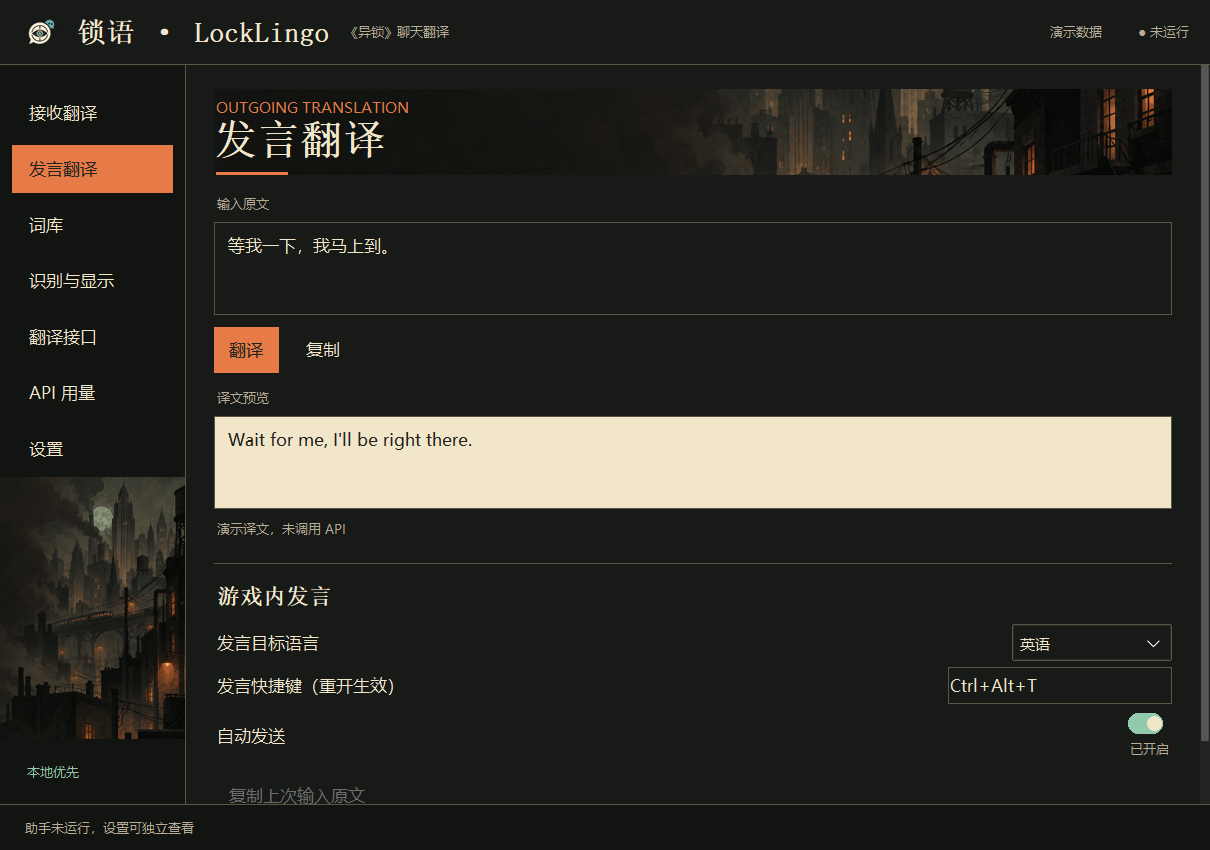
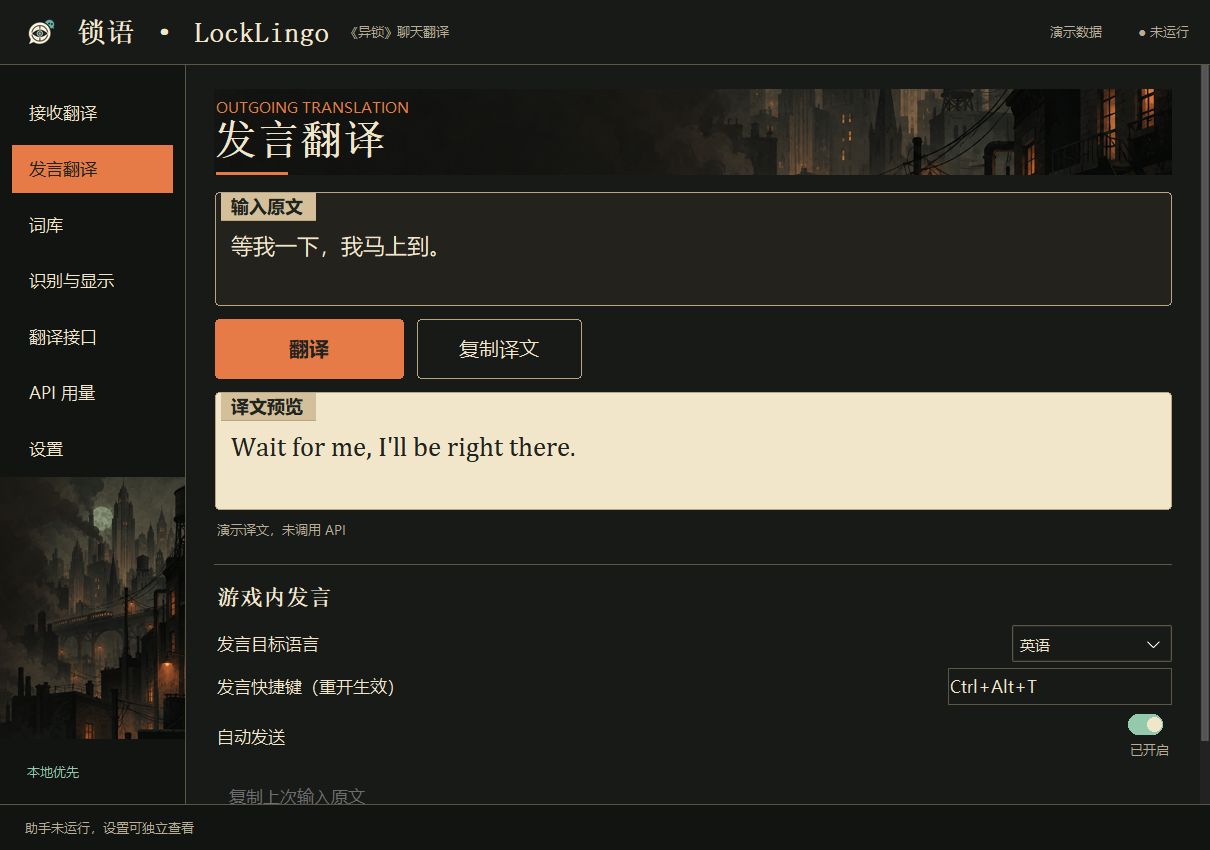
Polish composer typography and rounded print-style fields

diff --git a/gui/composer.py b/gui/composer.py
@@ -7,6 +7,84 @@ from gui.theme import COLORS as C
 from app.translation.manual import ManualTranslator
 
 
+def _rounded_outline(canvas, width, height, *, fill, border):
+    radius = 10
+    canvas.create_polygon(
+        1+radius, 1, width-radius, 1, width, 1, width, 1+radius,
+        width, height-radius, width, height, width-radius, height,
+        1+radius, height, 1, height, 1, height-radius, 1, 1+radius, 1, 1,
+        smooth=True, splinesteps=24, fill=fill, outline=border,
+        tags='decoration')
+
+
+def _text_field(parent, th, title, *, preview=False):
+    """Small print-style corners around a native, selectable Tk text widget."""
+    import tkinter.font as tkfont
+    fill = C['paper'] if preview else '#23221D'
+    font = ('Cambria', 16) if preview else (th.font[0], 13)
+    frame = th.tk.Canvas(parent, bg=C['bg'], width=1, highlightthickness=0,
+                         takefocus=0)
+    frame.pack(fill='x')
+    editor = th.tk.Text(frame, height=2, width=1, wrap='word', font=font,
+                        relief='flat', bd=0, highlightthickness=0,
+                        bg=fill, fg=C['ink'] if preview else C['fg'],
+                        insertbackground=C['fg'], selectbackground=C['accent'],
+                        selectforeground=C['ink'], padx=10, pady=9,
+                        state='disabled' if preview else 'normal', undo=not preview)
+    header = 30
+    frame.configure(height=header + editor.winfo_reqheight() + 7)
+    window = frame.create_window(7, header, window=editor, anchor='nw')
+    tag_font = (th.font[0], 11, 'bold')
+    tag_width = tkfont.Font(root=parent, font=tag_font).measure(title) + 30
+
+    def draw(_event=None):
+        frame.delete('decoration')
+        width, height = frame.winfo_width()-1, frame.winfo_height()-1
+        border = C['accent'] if str(editor.tk.call('focus')) == str(editor) else '#B9A580'
+        _rounded_outline(frame, width, height, fill=fill, border=border)
+        frame.create_rectangle(7, 2, tag_width, header-1,
+                               fill='#D3C09B', outline='', tags='decoration')
+        frame.create_line(7, header-1, tag_width, header-1,
+                          fill=border, tags='decoration')
+        frame.create_text(17, header/2, anchor='w', text=title,
+                          fill=C['ink'], font=tag_font, tags='decoration')
+        frame.itemconfigure(window, width=max(1, width-14))
+        frame.tag_lower('decoration')
+
+    frame.bind('<Configure>', draw)
+    editor.bind('<FocusIn>', draw, add='+')
+    editor.bind('<FocusOut>', draw, add='+')
+    return editor
+
+
+def _action_button(parent, th, title, command, *, primary=False):
+    frame = th.tk.Canvas(parent, bg=C['bg'], highlightthickness=0, takefocus=0)
+    frame.pack(side='left', padx=(0 if primary else 12, 0))
+    button = th.button(frame, title, command, kind='primary' if primary else 'default')
+    button.configure(font=(th.font[0], 12, 'bold' if primary else 'normal'),
+                     width=12 if primary else 11, pady=6, highlightthickness=0)
+    frame.configure(width=button.winfo_reqwidth()+10, height=button.winfo_reqheight()+10)
+    frame.create_window(5, 5, anchor='nw', window=button)
+
+    def draw(_event=None):
+        frame.delete('decoration')
+        focused = str(button.tk.call('focus')) == str(button)
+        _rounded_outline(frame, frame.winfo_width()-1, frame.winfo_height()-1,
+                         fill=button.cget('bg'), border=C['accent'] if primary or focused else '#B9A580')
+        if focused:
+            frame.create_line(14, frame.winfo_height()-7, frame.winfo_width()-14,
+                              frame.winfo_height()-7, fill=C['ink'] if primary else C['accent'],
+                              tags='decoration')
+        frame.tag_lower('decoration')
+
+    frame.bind('<Configure>', draw)
+    button.bind('<Enter>', draw, add='+')
+    button.bind('<Leave>', draw, add='+')
+    button.bind('<FocusIn>', draw, add='+')
+    button.bind('<FocusOut>', draw, add='+')
+    return button
+
+
 def fingerprint(app):
     from gui.pages import _load_config
     config = _load_config(app.root_dir)
@@ -19,18 +97,10 @@ def build_composer(parent, app):
     th = app.th
     body = panel(parent, th)
     body.pack(fill='x')
-    th.label(body, '输入原文', fg=C['muted'], font=th.font_small).pack(anchor='w', pady=(0, 6))
-    source = th.tk.Text(body, height=3, wrap='word', font=th.font, relief='flat',
-                        bg=C['bg'], fg=C['fg'], insertbackground=C['fg'], padx=12, pady=10, undo=True,
-                        highlightthickness=1, highlightbackground=C['border'], highlightcolor=C['accent'])
-    source.pack(fill='x')
+    source = _text_field(body, th, '输入原文')
     row = panel(body, th)
     row.pack(fill='x', pady=12)
-    th.label(body, '译文预览', fg=C['muted'], font=th.font_small).pack(anchor='w', pady=(0, 6))
-    output = th.tk.Text(body, height=3, wrap='word', font=th.font, relief='flat',
-                        bg=C['paper'], fg=C['ink'], padx=12, pady=10, state='disabled',
-                        highlightthickness=1, highlightbackground=C['border'])
-    output.pack(fill='x')
+    output = _text_field(body, th, '译文预览', preview=True)
     status = text(body, th, '', small=True, muted=True, wraplength=700)
     status.pack(anchor='w', pady=(7, 0))
     service = getattr(app, '_manual_service', None)
@@ -99,10 +169,8 @@ def build_composer(parent, app):
         state['message'] = '已复制'
         render()
 
-    translate = th.button(row, '翻译', submit, kind='primary')
-    translate.pack(side='left')
-    copy = th.button(row, '复制', copy_result)
-    copy.pack(side='left', padx=(12, 0))
+    translate = _action_button(row, th, '翻译', submit, primary=True)
+    copy = _action_button(row, th, '复制译文', copy_result)
     source.insert('1.0', state['input'])
     source.edit_modified(False)
     source.bind('<<Modified>>', changed)
